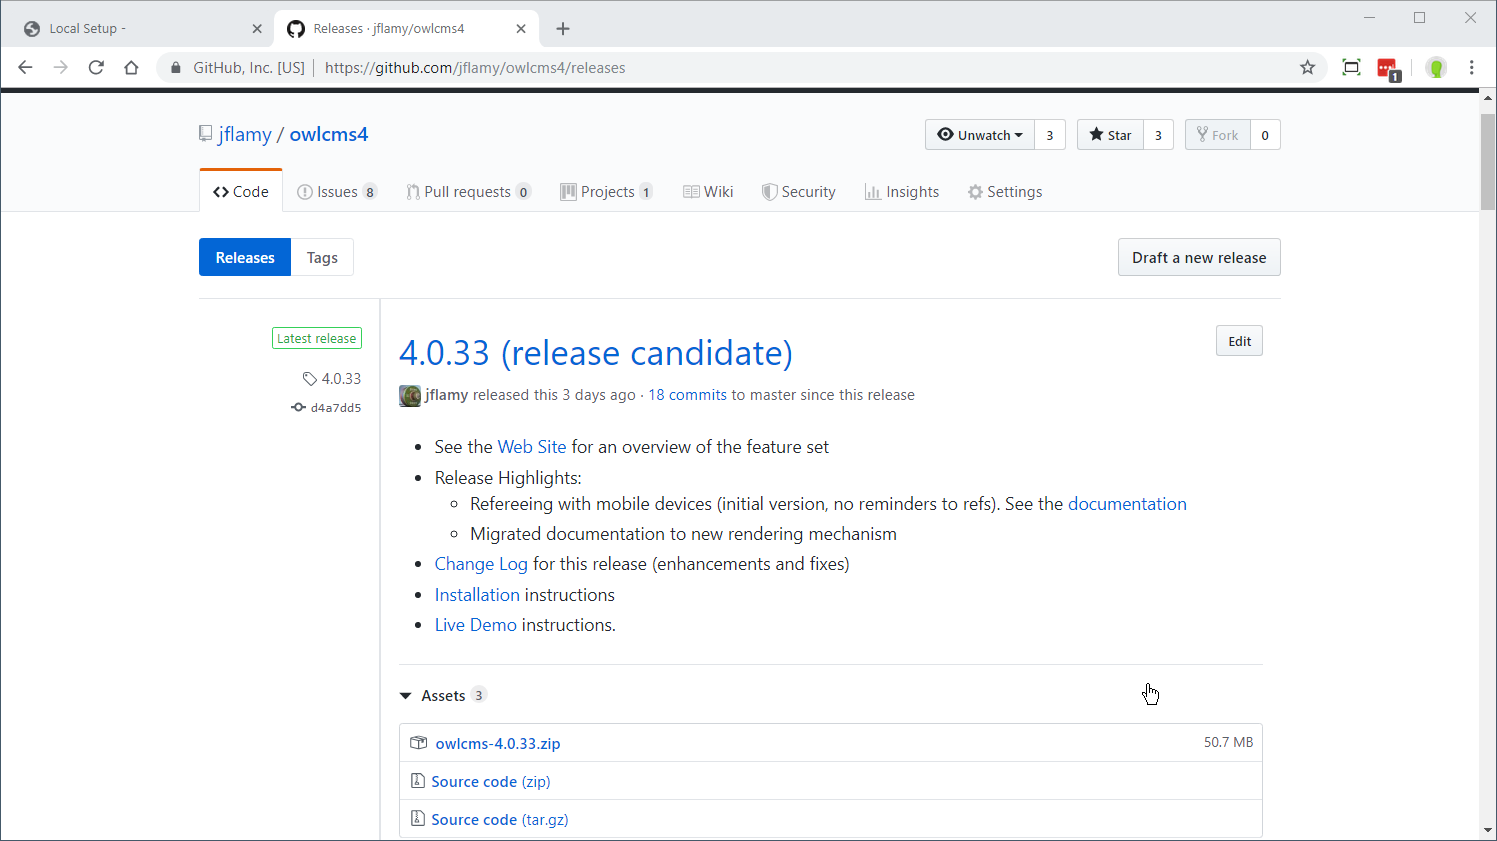
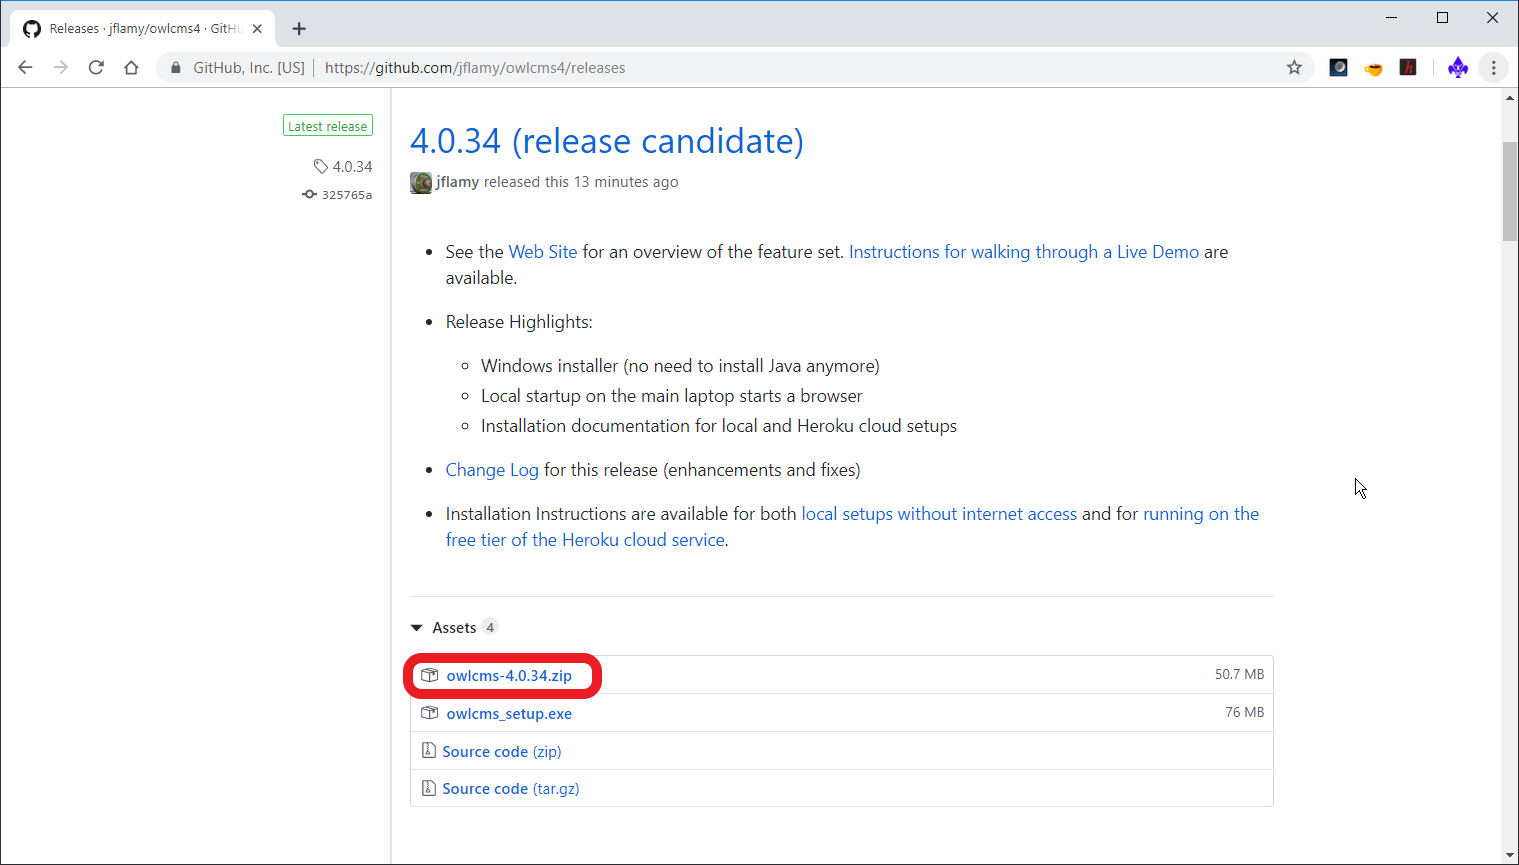
Doc updates

diff --git a/docs/Heroku.md b/docs/Heroku.md
@@ -9,7 +9,7 @@ You will need one laptop or minipc for each display.
 
 - Create a free account. Remember the login and password information.
 
-- Create an app -- this is the name under which your cloud copy of owlcms will be known. Pick an available name, typically the name of your club or federation.
+- Create an app -- this is the name under which your cloud copy of owlcms will be known. Pick an available name, typically the name of your club or federation. In the rest of this example, we will use a dummy name `myHerokuAppName`
 
   ![0-createNewApp](img\Heroku\0-createNewApp.png)
 
@@ -57,19 +57,19 @@ The following steps will allow you to download the owlcms application and update
 
 - Get the current installation file ending in `.zip` from the <https://github.com/jflamy/owlcms4/releases> page (see the "Assets" section)
   
-  ![010_zip](/img/LocalInstall/010_zip.png)
+  ![010_zip](/img/Heroku/9a_zip.png)
   
-- Download a release and unzip it release to a directory by double-clicking on it.   
+- Download the release and unzip it release to a directory by double-clicking on it.   
   
 - Start a command shell and go to the directory where you unzipped the files.
   ```bash
    cd *the_directory_where_you_unzipped_the_files*
   ```
 
-- Run the deploy command (replace X.Y and myHerokuAppName with the proper values)
+- Run the deploy command (replace 4.0.34 and myHerokuAppName with the proper values)
 
   ```bash
-   heroku deploy:jar owlcms-4.X.Y.jar --app myHerokuAppName  
+   heroku deploy:jar owlcms-4.0.34.jar --app myHerokuAppName  
   ```
   
 - Open the application using the following command (or go to ``https://myfederation.herokuapp.com``). This will start the application. Heroku provides the database names and database login information automatically.  See below for securing the application for actual competition usage.
@@ -83,14 +83,14 @@ The following steps will allow you to download the owlcms application and update
   ```bash
   cp Procfile prodProcfile
   cp demoProcfile Procfile
-  heroku deploy:jar owlcms-4.X.Y.jar --app myHerokuAppName
+  heroku deploy:jar owlcms-4.0.34.jar --app myHerokuAppName
   ```
 
 - If after running a demo you want to restore competition mode
   
   ```bash
   cp prodProcfile Procfile
-  heroku deploy:jar owlcms-4.X.Y.jar --app myHerokuAppName
+  heroku deploy:jar owlcms-4.0.34.jar --app myHerokuAppName
   ```
   
 

diff --git a/docs/index.md b/docs/index.md
@@ -25,20 +25,6 @@ This system is a full rewrite of [owlcms2](https://owlcms2.sourceforge.io/#!inde
 
 The software is meant to comply with current IWF Technical Competition Rules and Regulations (TCRR) and with the current Masters Weightlifting rules.  TCRR Requirements regarding equipment are outside our scope (such as the presence of indicator lights and buzzers on refereeing devices, etc.)
 
-## Installation
-
-[Ready-to-run Releases](https://github.com/jflamy/owlcms4/releases) are available at [https://github.com/jflamy/owlcms4/releases](https://github.com/jflamy/owlcms4/releases) . The releases can be run either locally (on any machine where Java8 is available), or on the cloud.
-
-Installation Instructions are available for both [local installations](LocalSetup.md) and for [running on the Heroku cloud service](Heroku.md).
-
-Until which time documentation for owlcms4 is fully updated, you may wish to refer to the [owlcms2](https://owlcms2.sourceforge.io/#!Running.md) documentation.  The general concepts are the same.
-
-#### Requirements
-
-- The server software will run on any recent laptop acting as a server (or on a cloud) with Java8 installed.
-- For the user interface and displays, use a recent version of Chrome or Firefox on a laptop (Windows, Mac, Linux).  Apple iPads are not supported as I do not have access to a development Mac to iron out the glitches.
-- In order to drive the displays, you may use any laptop or miniPC (such as a [Raspberry Pi](https://www.raspberrypi.org/products/raspberry-pi-3-model-b/)).  You need one laptop or miniPC for each display.
-
 ## Demo
 
 A [Live demo](https://owlcms4.herokuapp.com) of the current build is available on the Heroku cloud service.

diff --git a/docs/LocalSetup.md b/docs/LocalSetup.md
@@ -6,7 +6,7 @@ This step is performed only on the master laptop.
 
 - Get the current installation file called `owlcms_setup.exe` from the <https://github.com/jflamy/owlcms4/releases> page (see the "Assets" section)
 
-![zip](img\LocalInstall\010_zip.png)
+![zip](img\LocalInstall\010_setupexe.png)
 
 - Open the downloaded installer by double-clicking on it.
 
